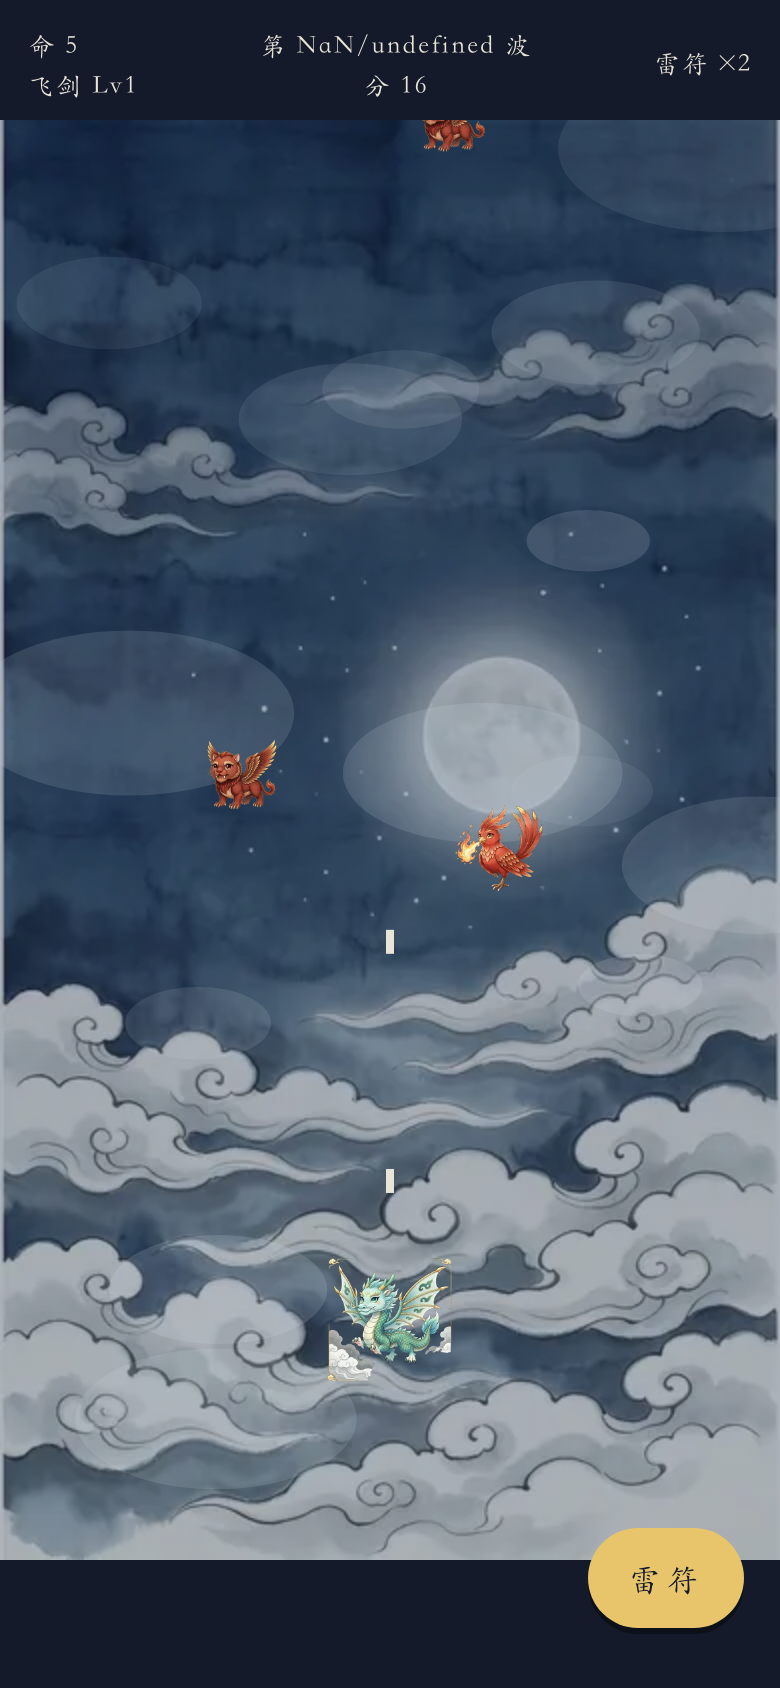
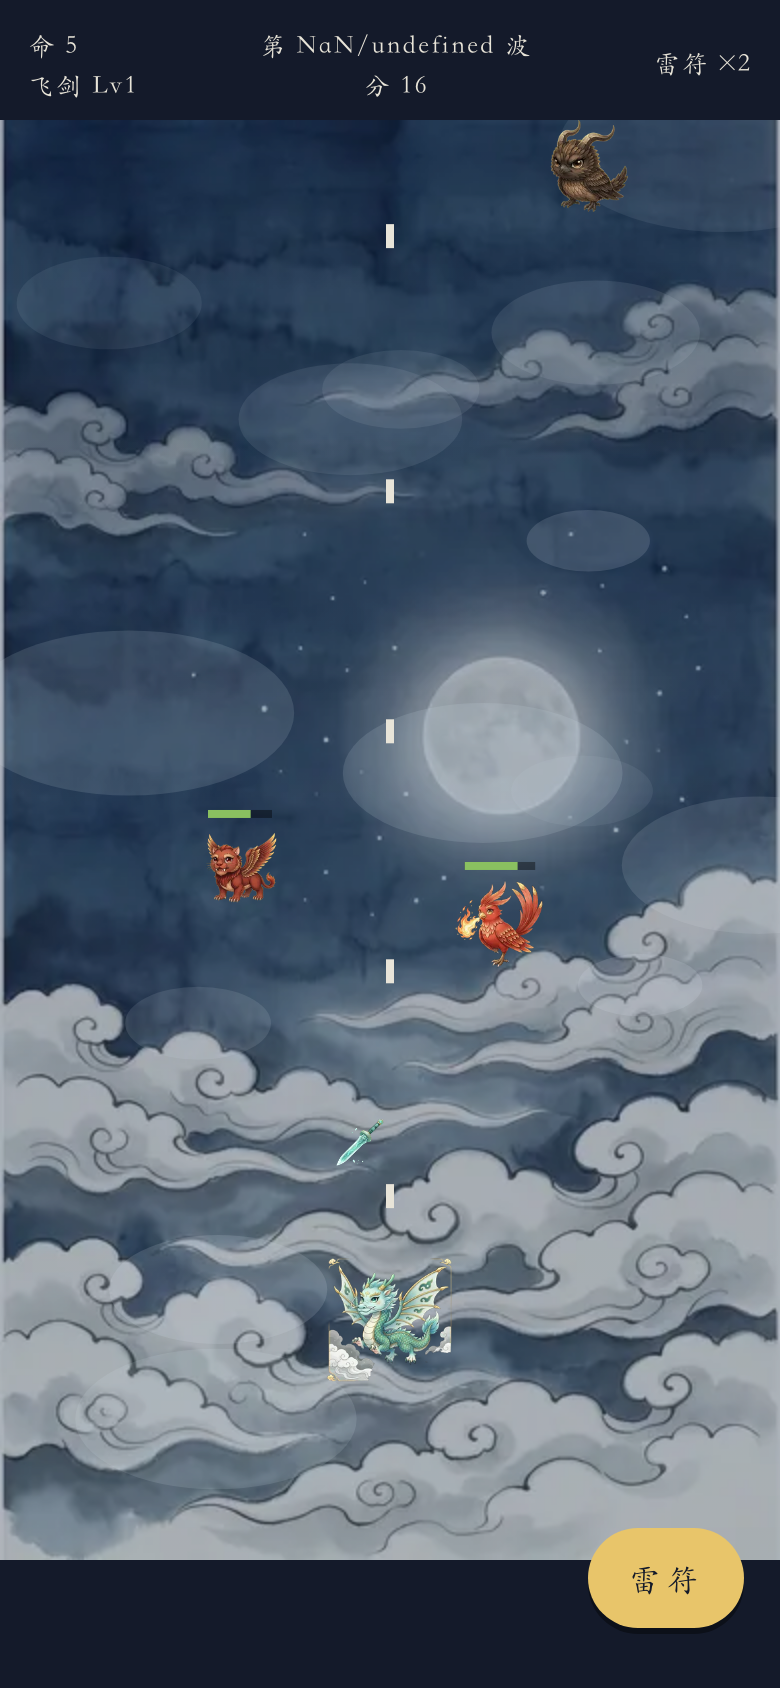
山海御空视听升级：全敌血条+粒子特效（爆炸/闪电/冲击波，Kenney 粒子素材）

diff --git a/tools/shanhai/assets/scene.js b/tools/shanhai/assets/scene.js
@@ -8,6 +8,37 @@
     im.src = "./assets/img/" + n + ".webp";
     IMGS[n] = im;
   });
+  var FXI = {};
+  ["spark1", "spark2", "star1", "star2", "flame", "smoke1", "smoke2", "magic", "circle"].forEach(function (n) {
+    var im = new Image();
+    im.src = "./assets/img/fx/" + n + ".png";
+    FXI[n] = im;
+  });
+  var particles = [];
+
+  function spawnParticles(kind, x, y, n) {
+    var names = {
+      boom: ["spark1", "spark2", "star1", "flame", "smoke1"],
+      hit: ["spark1", "spark2"],
+      thunder: ["magic", "star2", "spark2"],
+      power: ["star1", "star2"],
+      shieldbreak: ["circle", "spark2"]
+    }[kind] || ["spark1"];
+    for (var i = 0; i < n; i++) {
+      var a = Math.random() * Math.PI * 2;
+      var sp = kind === "boom" ? 60 + Math.random() * 140 : 40 + Math.random() * 80;
+      particles.push({
+        img: FXI[names[Math.floor(Math.random() * names.length)]],
+        x: x, y: y,
+        vx: Math.cos(a) * sp, vy: Math.sin(a) * sp - (kind === "boom" ? 30 : 0),
+        t0: performance.now(),
+        life: kind === "boom" ? 500 + Math.random() * 300 : 300 + Math.random() * 200,
+        size: kind === "boom" ? 14 + Math.random() * 16 : 8 + Math.random() * 10,
+        rot: Math.random() * Math.PI * 2,
+        vr: (Math.random() - 0.5) * 8
+      });
+    }
+  }
   var clouds = [];
   var cloudSeed = 0;
 
@@ -99,6 +130,12 @@
         ctx.fillRect(en.x - bw / 2, en.y - et.r - 14, bw, 6);
         ctx.fillStyle = "#c3272b";
         ctx.fillRect(en.x - bw / 2, en.y - et.r - 14, bw * Math.max(0, en.hp / et.hp), 6);
+      } else {
+        var hw = et.r * 1.6;
+        ctx.fillStyle = "rgba(0,0,0,0.4)";
+        ctx.fillRect(en.x - hw / 2, en.y - et.r - 9, hw, 4);
+        ctx.fillStyle = en.hp / et.hp > 0.4 ? "#8ac060" : "#e07a52";
+        ctx.fillRect(en.x - hw / 2, en.y - et.r - 9, hw * Math.max(0, en.hp / et.hp), 4);
       }
     }
 
@@ -142,14 +179,28 @@
   function drawFx(S, t) {
     for (var i = S.fx.length - 1; i >= 0; i--) {
       var f = S.fx[i];
+      if (f.spawned === undefined) {
+        f.spawned = true;
+        if (f.kind === "boom") spawnParticles("boom", f.x, f.y, 14);
+        else if (f.kind === "hit") spawnParticles("hit", f.x, f.y, 5);
+        else if (f.kind === "thunder") spawnParticles("thunder", f.x, f.y, 20);
+        else if (f.kind === "power") spawnParticles("power", f.x, f.y, 10);
+        else if (f.kind === "shieldbreak") spawnParticles("shieldbreak", f.x, f.y, 8);
+      }
       var age = (t - f.t0) / 0.6;
       if (age >= 1) { S.fx.splice(i, 1); continue; }
       if (f.kind === "boom") {
-        ctx.globalAlpha = (1 - age) * 0.8;
+        ctx.globalAlpha = (1 - age) * 0.7;
         ctx.fillStyle = "#e8a56a";
         ctx.beginPath();
-        ctx.arc(f.x, f.y, 8 + age * 26, 0, Math.PI * 2);
+        ctx.arc(f.x, f.y, 8 + age * 30, 0, Math.PI * 2);
         ctx.fill();
+        ctx.globalAlpha = (1 - age) * 0.4;
+        ctx.strokeStyle = "#e8c56a";
+        ctx.lineWidth = 2;
+        ctx.beginPath();
+        ctx.arc(f.x, f.y, 12 + age * 44, 0, Math.PI * 2);
+        ctx.stroke();
         ctx.globalAlpha = 1;
       } else if (f.kind === "hit") {
         ctx.globalAlpha = (1 - age);
@@ -159,9 +210,24 @@
         ctx.fill();
         ctx.globalAlpha = 1;
       } else if (f.kind === "thunder") {
-        ctx.globalAlpha = (1 - age) * 0.5;
-        ctx.fillStyle = "#e8e4d8";
-        ctx.fillRect(0, 0, D.W, D.H);
+        if (age < 0.25) {
+          ctx.globalAlpha = (0.25 - age) * 2;
+          ctx.fillStyle = "#e8e4d8";
+          ctx.fillRect(0, 0, D.W, D.H);
+          ctx.globalAlpha = 1;
+        }
+        ctx.globalAlpha = (1 - age);
+        ctx.strokeStyle = "#e8c56a";
+        ctx.lineWidth = 3;
+        ctx.beginPath();
+        var lx = f.x, ly = 0;
+        ctx.moveTo(lx, ly);
+        while (ly < f.y) {
+          ly += 30 + Math.random() * 20;
+          lx += (Math.random() - 0.5) * 30;
+          ctx.lineTo(lx, Math.min(ly, f.y));
+        }
+        ctx.stroke();
         ctx.globalAlpha = 1;
       } else if (f.kind === "hurt") {
         ctx.globalAlpha = (1 - age) * 0.4;
@@ -173,7 +239,7 @@
         ctx.strokeStyle = "#a0d8c0";
         ctx.lineWidth = 3;
         ctx.beginPath();
-        ctx.arc(f.x, f.y, 30 + age * 20, 0, Math.PI * 2);
+        ctx.arc(f.x, f.y, 30 + age * 26, 0, Math.PI * 2);
         ctx.stroke();
         ctx.globalAlpha = 1;
       } else if (f.kind === "power" && f.text) {
@@ -184,6 +250,31 @@
         ctx.fillText(f.text, f.x, f.y - 30 - age * 20);
         ctx.globalAlpha = 1;
       }
+    }
+    var nowMs = performance.now();
+    for (var p = particles.length - 1; p >= 0; p--) {
+      var pt = particles[p];
+      var page = (nowMs - pt.t0) / pt.life;
+      if (page >= 1) { particles.splice(p, 1); continue; }
+      var dt2 = 1 / 60;
+      pt.x += pt.vx * dt2;
+      pt.y += pt.vy * dt2;
+      pt.vy += 60 * dt2;
+      pt.rot += pt.vr * dt2;
+      ctx.save();
+      ctx.globalAlpha = (1 - page) * 0.9;
+      ctx.translate(pt.x, pt.y);
+      ctx.rotate(pt.rot);
+      var sz = pt.size * (1 - page * 0.4);
+      if (pt.img && pt.img.complete && pt.img.naturalWidth > 0) {
+        ctx.drawImage(pt.img, -sz / 2, -sz / 2, sz, sz);
+      } else {
+        ctx.fillStyle = "#e8c56a";
+        ctx.beginPath();
+        ctx.arc(0, 0, sz / 3, 0, Math.PI * 2);
+        ctx.fill();
+      }
+      ctx.restore();
     }
   }
 
